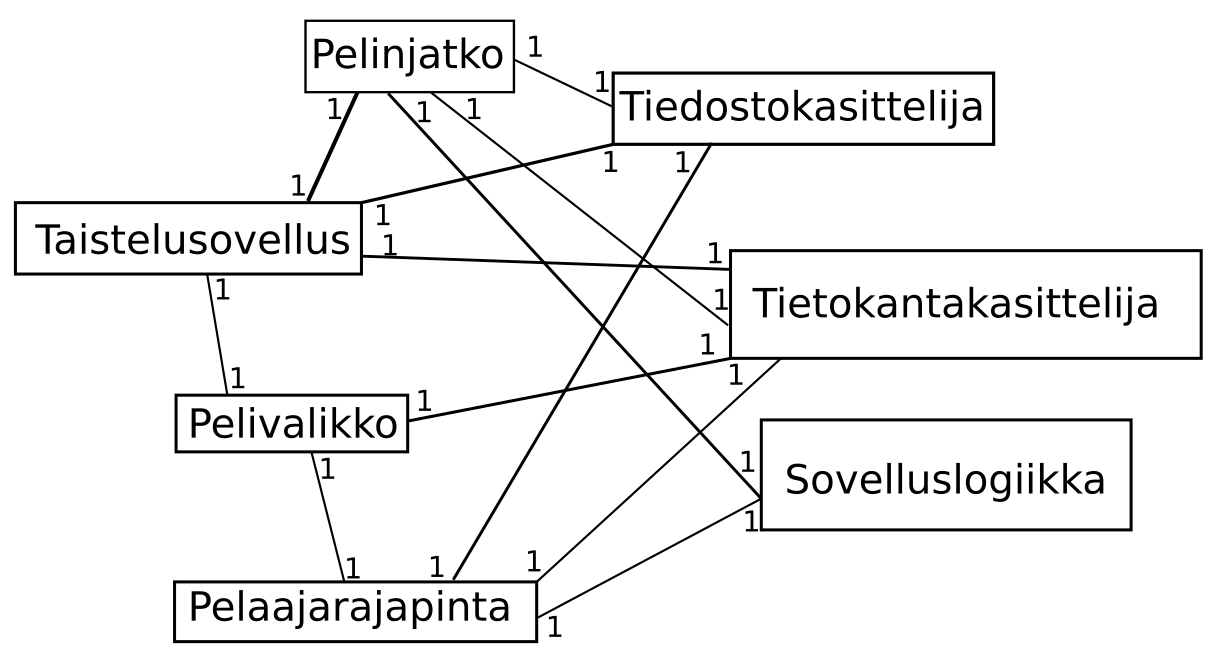
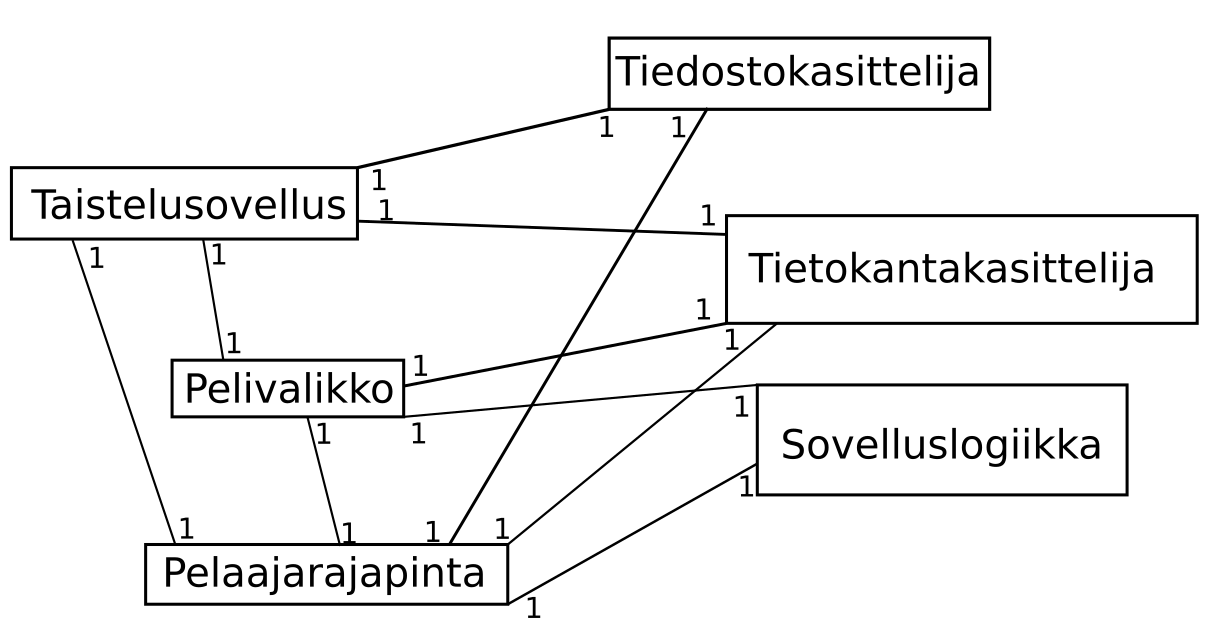
Viimeinen toiminnallisuus lisätty

diff --git a/src/main.py b/src/main.py
@@ -1,36 +1,55 @@
+from pelaajarajapinta import Pelaajarajapinta
 from pelivalikko import Pelivalikko
-from pelinjatkaminen import Pelinjatko
 from tietokannankasittely import Tietokantakasittelija
 from tiedostonkasittely import Tiedostokasittelija
 
 class Taistelusovellus:
+    """Luokka, jolla käynnistetään sovellus, ladataan peli ja lisätään kysymyksiä.
+    
+    Atribuutit:
+        pelivalikko: Tällä valmistellaan uuden pelin kysymykset.
+        jatko: Tällä jatketaan tallennettua peliä.
+        tietokanta: Muodostaa yhteyden tietokantaan ja suorittaa kysymyksen lisäämisen.
+        tiedostokasittely: Lataa tallennetun pelin sen jatkamista varten.
+    """
     def __init__(self):
         self.pelivalikko = Pelivalikko()
         self.tietokanta = Tietokantakasittelija()
         self.tiedostokasittely = Tiedostokasittelija()
-        self.jatko = Pelinjatko()
+        self.jatko = Pelaajarajapinta()
     def ohje(self):
+        """
+        Tulostaa alkuvalikon ohjeistuksen.
+        """
         print("Anna komento. 0 lopettaa sovelluksen.")
         print("1 aloittaa uuden pelin.")
         print("2 lisää uuden kysymyksen.")
         print("3 lataa tallennetun pelin.")
     def kysymys_valmistelu(self):
+        """
+        Kysyy käyttäjältä itse kysymyksen, kolme vastausta ja jokaiselle
+        vastaukselle voiton, tappion ja tappion todennäköisyyden ja
+        lisää tiedot tietokantaan.
+        """
         kys = input("Kysymys: ")
         vas1 = input("Vastaus 1: ")
-        tod1 = int(input("Vastauksen 1 todennäköisyys (kokonaisluku 1-100): "))
+        tod1 = int(input("Vastauksen 1 epäonnistumisen todennäköisyys (kokonaisluku 1-100): "))
         voit1 = input("Vastauksen 1 voittotapahtuma: ")
         tap1 = input("Vastauksen 1 tappiotapahtuma: ")
         vas2 = input("Vastaus 2: ")
-        tod2 = int(input("Vastauksen 2 todennäköisyys (kokonaisluku 1-100): "))
+        tod2 = int(input("Vastauksen 2 epäonnistumisen todennäköisyys (kokonaisluku 1-100): "))
         voit2 = input("Vastauksen 2 voittotapahtuma: ")
         tap2 = input("Vastauksen 2 tappiotapahtuma: ")
         vas3 = input("Vastaus 3: ")
-        tod3 = int(input("Vastauksen 3 todennäköisyys (kokonaisluku 1-100): "))
+        tod3 = int(input("Vastauksen 3 epäonnistumisen todennäköisyys (kokonaisluku 1-100): "))
         voit3 = input("Vastauksen 3 voittotapahtuma: ")
         tap3 = input("Vastauksen 3 tappiotapahtuma: ")
         tiedot = (kys, vas1, voit1, tap1, tod1, vas2, voit2, tap2, tod2, vas3, voit3, tap3, tod3)
         self.tietokanta.lisaa_kysymys(tiedot)
     def aloita(self):
+        """
+        Käynnistää sovelluksen.
+        """
         while True:
             self.ohje()
             komento = input("Komento:")
@@ -43,7 +62,7 @@ class Taistelusovellus:
                 if len(lista) < 1:
                     print("Ei tallennettua peliä.")
                 else:
-                    self.jatko.jatka(lista)
+                    self.jatko.suorita(lista)
             elif komento not in ["0", "1", "2", "3"]:
                 print("Tuntematon komento.")
             else:

diff --git a/src/pelaajarajapinta.py b/src/pelaajarajapinta.py
@@ -1,33 +1,66 @@
 from logiikka import Sovelluslogiikka
 from tietokannankasittely import Tietokantakasittelija
 from tiedostonkasittely import Tiedostokasittelija
+from random import randint
 
 class Pelaajarajapinta:
+    """
+    Tällä luokalla suoritetaan itse pelin pelaaminen.
+    
+    Atribuutit:
+        tietokanta: Käytetään kysymysten tietojen hakemiseen.
+        logiikka: Käytetään tapahtuman arpomiseen.
+        tiedotokasittely: Käytetään pelin tallentamiseen.
+    """
     def __init__(self):
         self.tietokanta = Tietokantakasittelija()
         self.logiikka = Sovelluslogiikka()
         self.tiedostokasittely = Tiedostokasittelija()
     def tulosta_kysymys(self, kysymys_tiedot: tuple):
+        """
+        Ottaa parametrina kysymyksen tiedot ja tulostaa ne.
+        """
         print(kysymys_tiedot[1])
         print("1: "+kysymys_tiedot[2]+",")
         print("2: "+kysymys_tiedot[6]+",")
         print("vai 3: "+kysymys_tiedot[10]+".")
         print("save tallentaa pelin ja quit lopettaa pelin.")
+    def alaiset(self):
+        """
+        Kertoo käyttäjälle kuinka moni alainen kannattaa mitäkin
+        vaihtoehtoa.
+        """
+        alaisia = 8
+        ykkonen = alaisia-randint(0, alaisia)
+        alaisia -= ykkonen
+        kakkonen = alaisia-randint(0, alaisia)
+        alaisia -= kakkonen
+        kolmonen = alaisia-randint(0, alaisia)
+        print("Alaiset: vaihtoehto 1:"+str(ykkonen)+" vaihtoehto 2:"+str(kakkonen)+" vaihtoehto 3:"+str(kolmonen))
     def tallennus(self, vastaus_tallenna, kysymyslista, kysymys):
+        """
+        Tallentaa pelin. Ottaa parametreina komennon ja tiedot siitä,
+        mitkä kysymykset ovat käymättä.
+        """
         if vastaus_tallenna == "save":
             self.tiedostokasittely.tallenna_peli(kysymyslista, kysymys)
             print("Peli tallennettu.")
-    def suorita(self, maara: int, maksimi: int):
-        kysymyslista = self.logiikka.luo_lista(maara, maksimi)
+    def suorita(self, kysymyslista: list):
+        """
+        Käy parametrina annetun listan kysymykset läpi yksi kerrallaan,
+        tulostaen ne ja kysyen käyttäjän vastausta.
+        """
         for kysymys in range(0, len(kysymyslista)):
             kysymyksentiedot = self.tietokanta.hae_kysymys(kysymyslista[kysymys])
             self.tulosta_kysymys(kysymyksentiedot)
+            self.alaiset()
             vastaus = input("Vastaus:")
             self.tallennus(vastaus, kysymyslista, kysymys)
             if vastaus == "quit":
                 return
             while vastaus not in ["1", "2", "3"]:
-                print("Vastaa 1, 2 tai 3, tallenna peli komennolla save tai lopeta peli komennolla quit.")
+                self.tulosta_kysymys(kysymyksentiedot)
+                self.alaiset()
                 vastaus = input("Vastaus:")
                 self.tallennus(vastaus, kysymyslista, kysymys)
                 if vastaus == "quit":

diff --git a/src/pelivalikko.py b/src/pelivalikko.py
@@ -1,26 +1,43 @@
+from logiikka import Sovelluslogiikka
 from pelaajarajapinta import Pelaajarajapinta
 from tietokannankasittely import Tietokantakasittelija
 
 class Pelivalikko:
+    """
+    Tätä luokkaa käytetään valmistellaan kysymykset uutta peliä varten.
+    
+    Atribuutit:
+        tietokanta: Käytetään kysymysten hakemiseen.
+        logiikka: Käytetään kysymyslistan luomiseen.
+        pelaamis_rajapinta: Käytetään pelin aloittamiseen.
+    """
     def __init__(self):
         self.tietokanta = Tietokantakasittelija()
+        self.logiikka = Sovelluslogiikka()
         self.pelaamis_rajapinta = Pelaajarajapinta()
     def ohjeistus(self):
+        """
+        Tulostaa ohjeistuksen.
+        """
         print("Syötä haluamasi kysymysten määrä kokonaislukuna tai keskeytä syöttämällä cancel.")
     def startti(self):
+        """
+        Hakee kysymysten määrän ja kysyy läpikäytävien kysymysten määrän.
+        """
         maksimi = self.tietokanta.kysymysten_maara()
         if maksimi < 1:
             print("Kysymyksiä ei ole tällä hetkellä tarjolla.")
         else:
             while True:
-                print("Kysymyksiä tarjolla "+maksimi)
+                print("Kysymyksiä tarjolla "+str(maksimi))
                 self.ohjeistus()
                 komento = input("Komento:")
                 if komento == "cancel":
                     print("Keskeytetty")
                     break
                 elif int(komento) in range(1, maksimi+1):
-                    self.pelaamis_rajapinta.suorita(int(komento), maksimi)
+                    lista_kysymyksia = self.logiikka.luo_lista(int(komento), maksimi)
+                    self.pelaamis_rajapinta.suorita(lista_kysymyksia)
                     break
                 else:
                     print("Seuraathan ohjeita.")

diff --git a/src/tietokannankasittely.py b/src/tietokannankasittely.py
@@ -1,16 +1,29 @@
 import sqlite3
 
 class Tietokantakasittelija:
+    """
+    Muodostaa yhteyden tietokantaan ja suorittaa tietokantaan
+    liittyvät komennot.
+    """
     def __init__(self):
         self.database = sqlite3.connect("kysymykset.db")
         self.database.isolation_level = None
     def kysymysten_maara(self):
+        """
+        Hakee tietokannassa olevien kysymysten lukumäärän.
+        """
         maara = self.database.execute("SELECT COUNT(*) FROM Kysymyksia").fetchone()
         return maara[0]
     def hae_kysymys(self, i: int):
+        """
+        Hakee annetun kysymyksen tiedot.
+        """
         kysymys = self.database.execute("SELECT * FROM Kysymyksia WHERE id=?", [i]).fetchone()
         return kysymys
     def lisaa_kysymys(self, tiedot: tuple):
+        """
+        Lisää annetut tiedot tietokantaan.
+        """
         sqlkomento_yksi = "INSERT INTO Kysymyksia "
         sqlkomento_kaksi = "(kysymys,ekavastaus,ekavoitto,ekatappio,ekatodennakoisyys,"
         sqlkomento_kolme = "tokavastaus,tokavoitto,tokatappio,tokatodennakoisyys,"

diff --git a/src/logiikka.py b/src/logiikka.py
@@ -1,7 +1,16 @@
 from random import choice, randint
 
 class Sovelluslogiikka:
+    """
+    Tällä luokalla toteutetaan sovelluksen sisäinen logiikka.
+    Metodit aseta_voitto, aseta_tappio ja aseta_todennakoisyys
+    palauttavat vastaavasti voiton, tappion ja todennäköisyyden,
+    joita käytetään tapahtuman arpomisessa.
+    """
     def luo_lista(self, lkm: int, maximi: int):
+        """
+        Luo satunnaisen listan kysymyksiä annettujen parametrien mukaan.
+        """
         tulos_lista=[]
         mahdolliset_kysymykset = [numero for numero in range(1, maximi+1)]
         for i in range(0, lkm):
@@ -31,6 +40,9 @@ class Sovelluslogiikka:
         if vastaus == "3":
             return tiedot[13]
     def arvo_tapahtuma(self, voitto: str, tappio: str, todennakoisyys: int):
+        """
+        Arpoo annetun todennäköisyyden perusteella, tapahtuuko voitto vai tappio.
+        """
         sattuma = randint(1, 100)
         if sattuma > todennakoisyys:
             return voitto

diff --git a/src/tiedostonkasittely.py b/src/tiedostonkasittely.py
@@ -1,10 +1,20 @@
 class Tiedostokasittelija:
+    """
+    Tätä luokkaa käytetään pelin tallentamiseen ja lataamiseen.
+    """
     def tallenna_peli(self, lista_kysymyksista: list, kohta: int, nimi="pelitallennus.txt"):
+        """
+        Tallentaa pelin erilliseen tekstitiedostoon.
+        Ottaa parametreina listan kysymyksistä ja kohdan, johon ollaan jääty.
+        """
         tallennettava_lista = [str(alkio)+"\n" for alkio in lista_kysymyksista[kohta:]]
         with open(nimi, "w") as tiedosto:
             for rivi in tallennettava_lista:
                 tiedosto.write(rivi)
     def lataa_peli(self, nimi="pelitallennus.txt"):
+        """
+        Lataa pelin erillisestä tekstitiedostosta.
+        """
         with open(nimi) as tiedosto:
             palautettava_lista = []
             for rivi in tiedosto:

diff --git a/Dokumentaatio/arkkitehtuuri.md b/Dokumentaatio/arkkitehtuuri.md
@@ -1,11 +1,48 @@
 # Arkkitehtuurikuvaus
 
 ## Rakenne
-
-### Luokkakaavio
+Sovelluksen rakenne noudattaa seuraavaa luokkakaaviota.
 ![Kuva luokkakaaviosta](./Kuvat/luokkakaavio.png)
 
+Luokkia on yritetty järjestää omiin hakemistoihin, mutta luokkien moduulista toiseen tuomiseen liittyvien ongelmien vuoksi tästä on luovuttu.
+
+## Käyttöliittymä
+Käyttöliittymään kuuluu seuraavat kolme näkymää:
+* Alkuvalikko (toteutettu luokkana Taistelusovellus)
+* Uuden pelin valmistelu (toteutettu luokkana Pelivalikko)
+* Itse pelin pelaaminen (toteutettu luokkana Pelaajarajapinta)
+
+## Sovelluslogiikka
+Sovelluksen sisäinen logiikka on toteutettu luokkana Sovelluslogiikka, johon kuuluvat seuraavat metodit:
+* 'luo-lista', joka luo satunnaisen listan kysymyksiä uuden pelin aloittamiseksi listan.
+* 'aseta-voitto', 'aseta-tappio' ja 'aseta-todennakoisyys', jotka nimensä mukaisesti asettavat voiton, tappion ja todennäköisyyden seuraava metodia varten.
+* 'arvo-tapahtuma' palauttaa annetun todennäköisyyden mukaan satunnaisesti voiton tai tappion.
+
+## Pysyväistallennus
+Sovelluksessa käytettävät kysymykset tietoineen tallennetaan tietokannan kysymykset.db tauluun Kysymyksia, mistä vastaa luokka Tietokantakasittelija.
+Tauluun on valmiiksi tallennettuna testikysymys, jonka voi vapaasti poistaa SQLite-tulkilla, kunhan sen korvaa välittömästi jollain muulla kysymyksellä.
+
+Tallennettu peli on tallennettuna tekstitiedostoon pelitallennus.txt. Luokka Tiedostokasittelija vastaa pelin tallentamisesta ja lataamisesta.
+
 ## Päätoiminnallisuudet
-#### Uusi peli alusta loppuun (yksi kysymys, ei pelin tallentamista)
+### Uusi peli alusta loppuun (yksi kysymys, ei pelin tallentamista)
 ![Kuva sekvenssikaaviosta](./Kuvat/sekvenssikaavio.png)
 Huom. x, y ja to ovat kokonaislukuja suljetulta väliltä 1-100. Tuple on pythonin tuple rakenne, ja vo ja ta ovat merkkijonoja.
+
+Luokka Taistelusovellus kutsuu luokan Pelivalikko metodia 'startti', joka puolestaan kutsuu luokan Tietokantakasittelija metodia 'kysymysten-maara', joka palauttaa tietokannassa olevien kysymysten lukumäärän kokonaislukuna x. Tämän jälkeen, mikäli käyttäjä syöttää kokonaisluvun väliltä 1-x, metodi 'startti' kutsuu luokan Sovelluslogiikka metodia 'luo_lista', joka luo ja palauttaa satunnaisen listan kokonaislukuja. Seuraavaksi kutsutaan luokan Pelaajarajapinta metodia 'suorita', joka kutsuu listan jokaisen kysymyksen kohdalla luokan Tietokantakasittelija metodia 'hae-kysymys', joka hakee kyseisen kysymyksen tiedot tietokannasta. Lisäksi jokaisen kysymyksen kohdalla kutsutaan luokan Sovelluslogiikka metodeja 'aseta-voitto', 'aseta-tappio' ja 'aseta-todennakoisyys', jotka asettavat voiton, tappion, ja todennäköisyyden, joiden perusteella metodi 'arvo-tapahtuma' palauttaa satunnaisesti joko voiton tai tappion.
+
+### Kysymyksen lisääminen
+![Kuva sekvenssikaaviosta kaksi](./Kuvat/sekvenssikaavio2.png)
+
+Käyttäjän annettua kysymyksen tiedot kutsutaan luokan Tietokantakasittelija metodia 'lisaa_kysymys', joka lisää kysymyksen tietokantaan.
+
+### Pelin tallentaminen
+![Kuva sekvenssikaaviosta kolme](./Kuvat/sekvenssikaavio3.png)
+
+Luokka Pelaajarajapinta kutsuu luokan Tiedostokasittelija metodia 'tallenna-peli', joka tallentaa pelin tekstitiedostoon.
+
+### Pelin lataaminen
+![Kuva sekvenssikaaviosta nelja](./Kuvat/sekvenssikaavio4.png)
+
+Luokka Taistelusovellus kutsuu luokan Tiedostokasittelija metodia 'lataa_peli', joka lukee tekstitiedoston ja palauttaa listan kysymyksiä.
+Tämän jälkeen kutsutaan luokan Pelaajarajapinta metodia 'suorita' käyttäen saatua listaa parametrina.

diff --git a/Dokumentaatio/Kayttoohje.md b/Dokumentaatio/Kayttoohje.md
@@ -1,0 +1,1 @@
+# Käyttöohje
